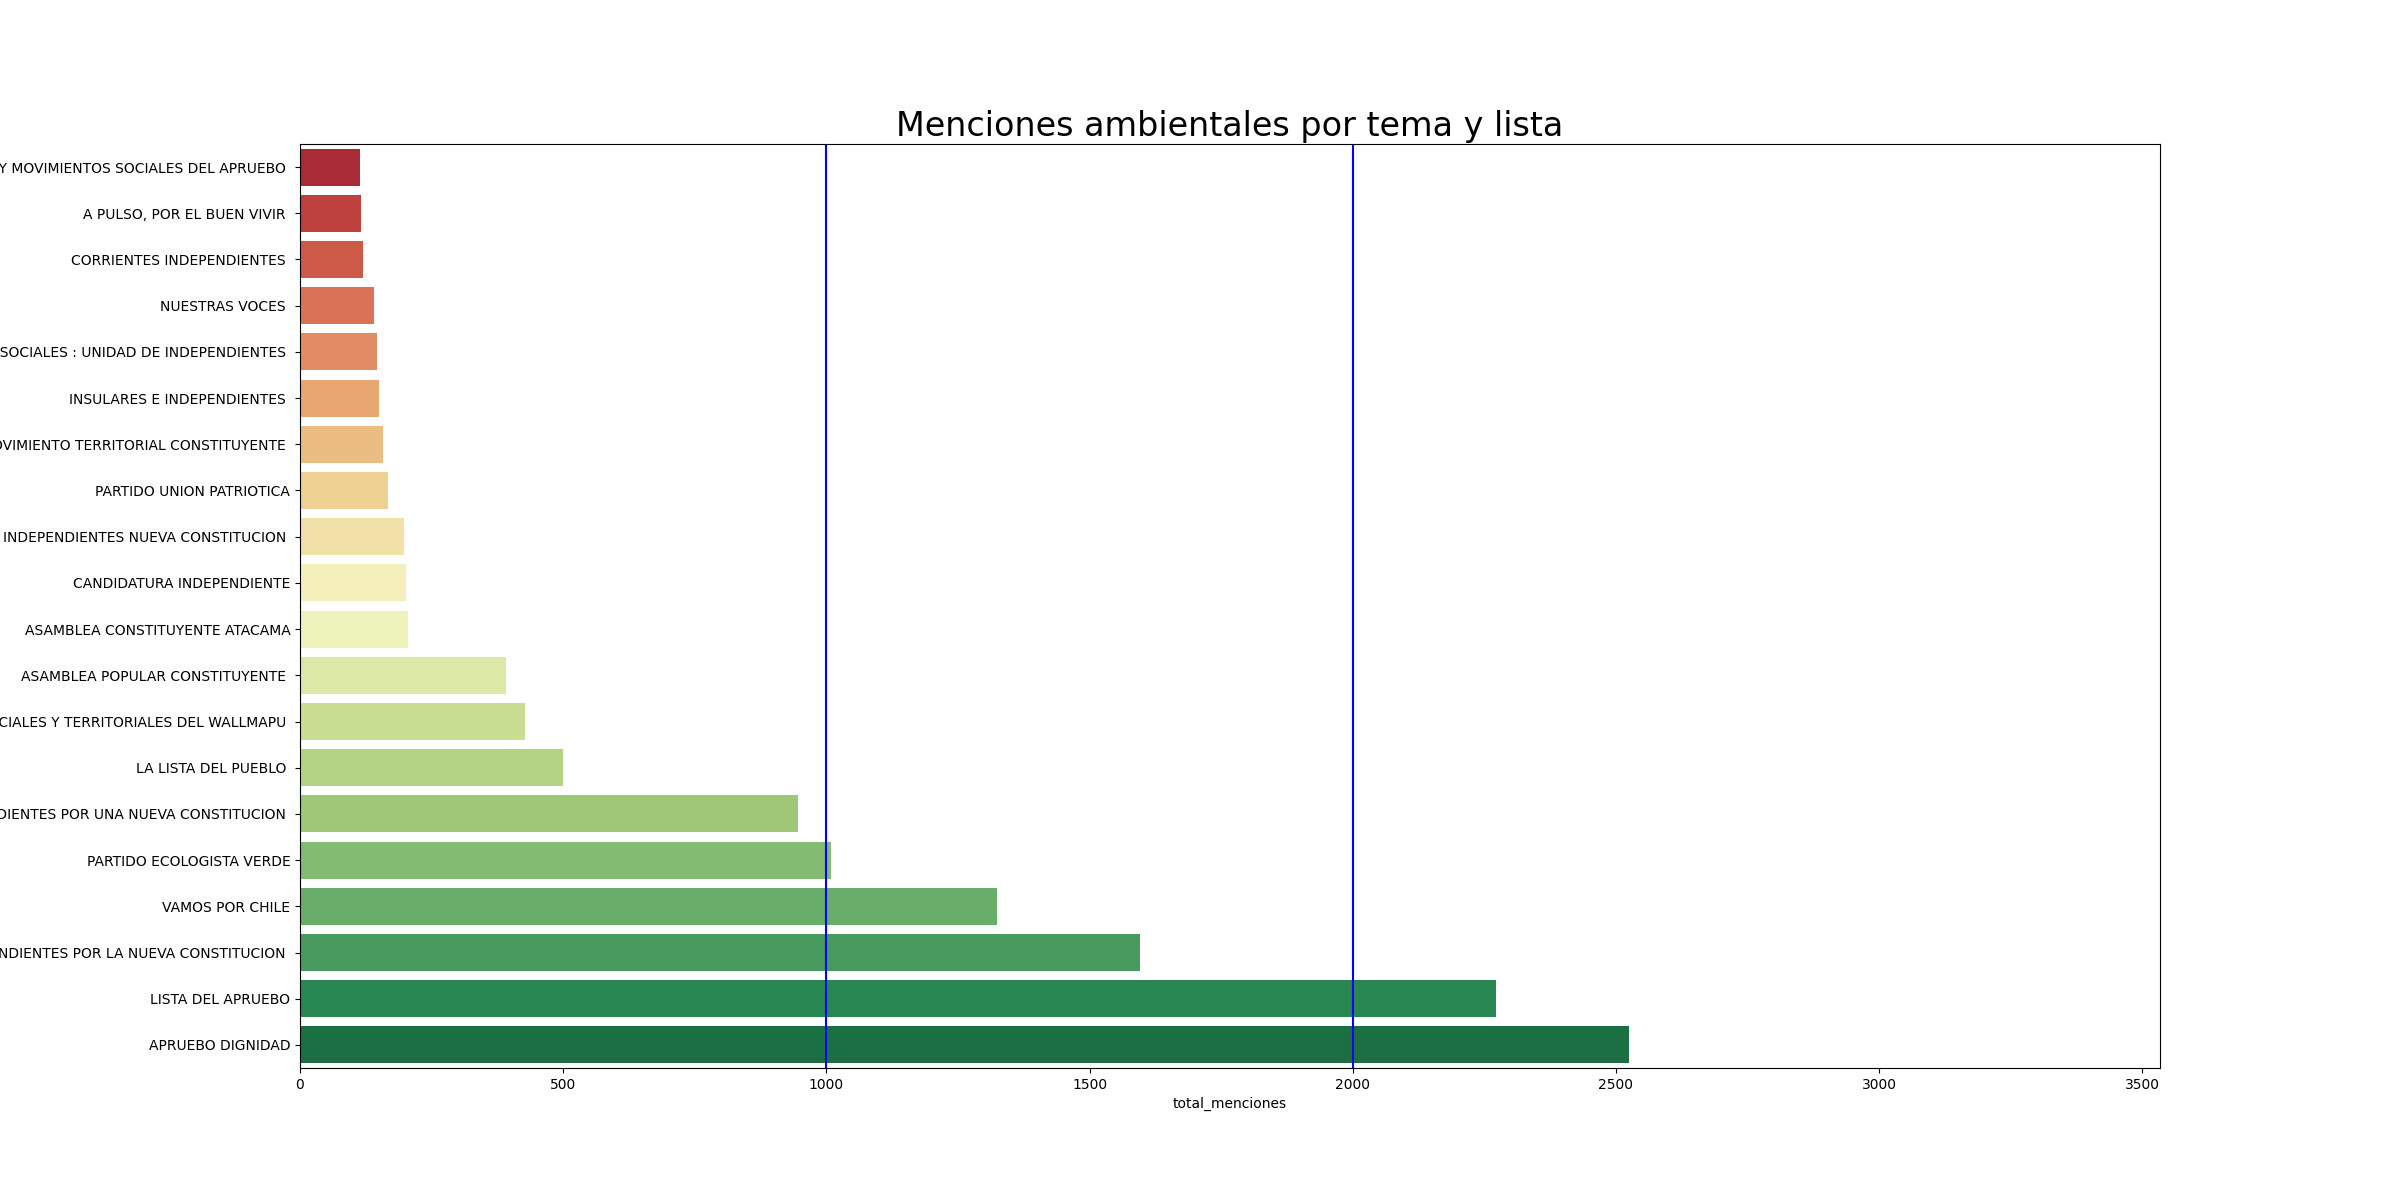
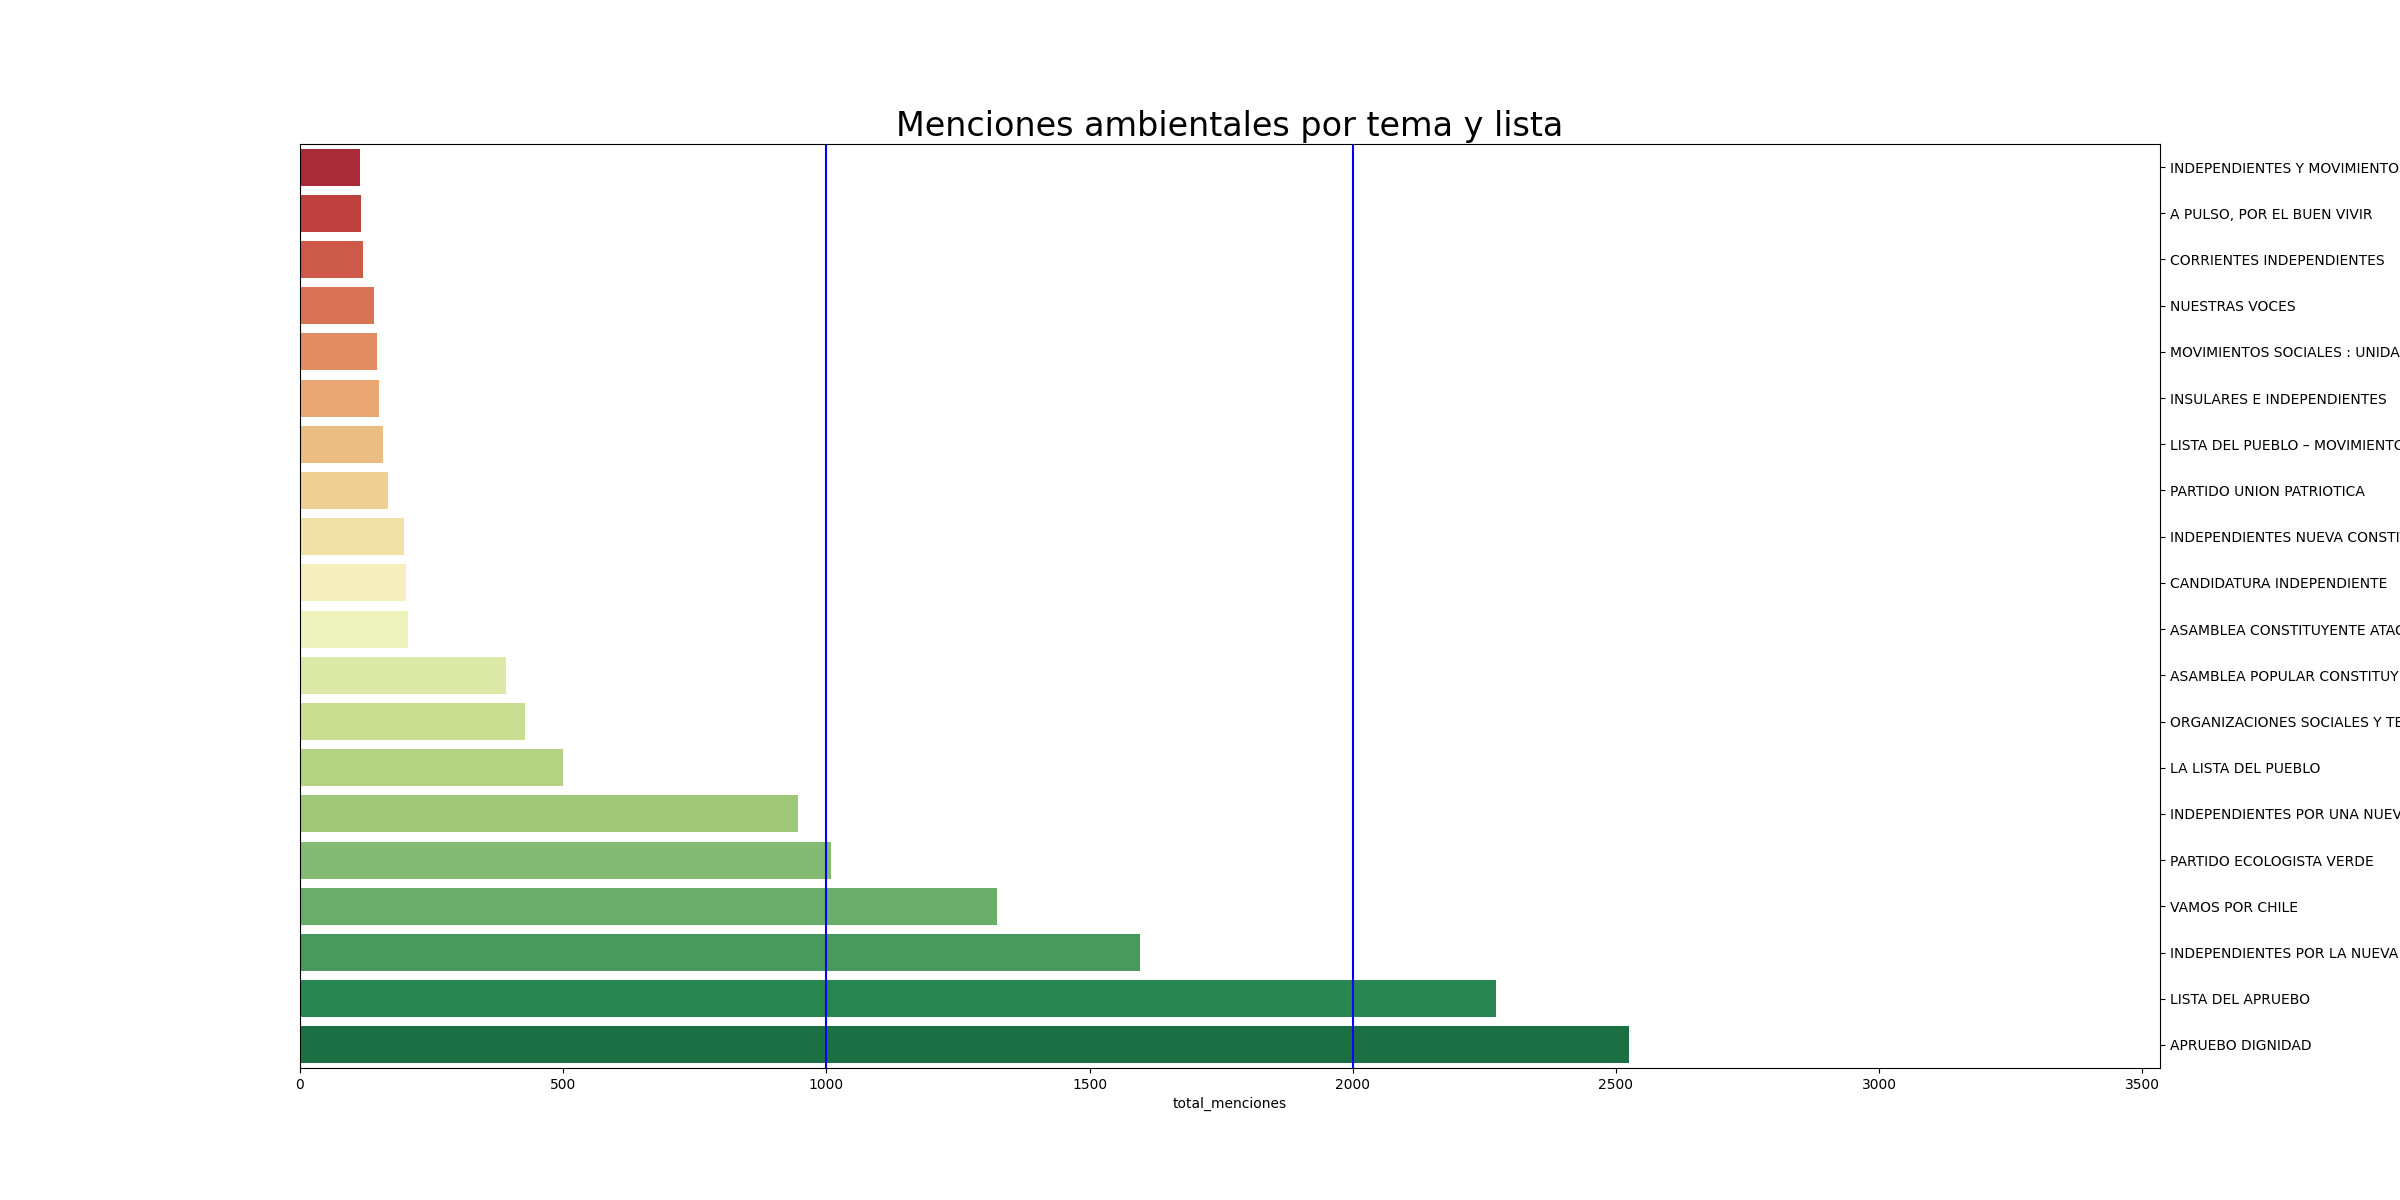
gráficos por lista

diff --git a/plotters.py b/plotters.py
@@ -150,6 +150,8 @@ sns.barplot(x='total_menciones', data=ts.sort_values('total_menciones'),
             y='lista', palette='RdYlGn')
 for xx in (1000,2000):    
     plt.axvline(x=xx, color='blue')
+ax.yaxis.set_label_position("right")
+ax.yaxis.tick_right()   # all this works!
 plt.margins(x=0.4)
 
 plt.title('Menciones ambientales por tema y lista', size=24)
